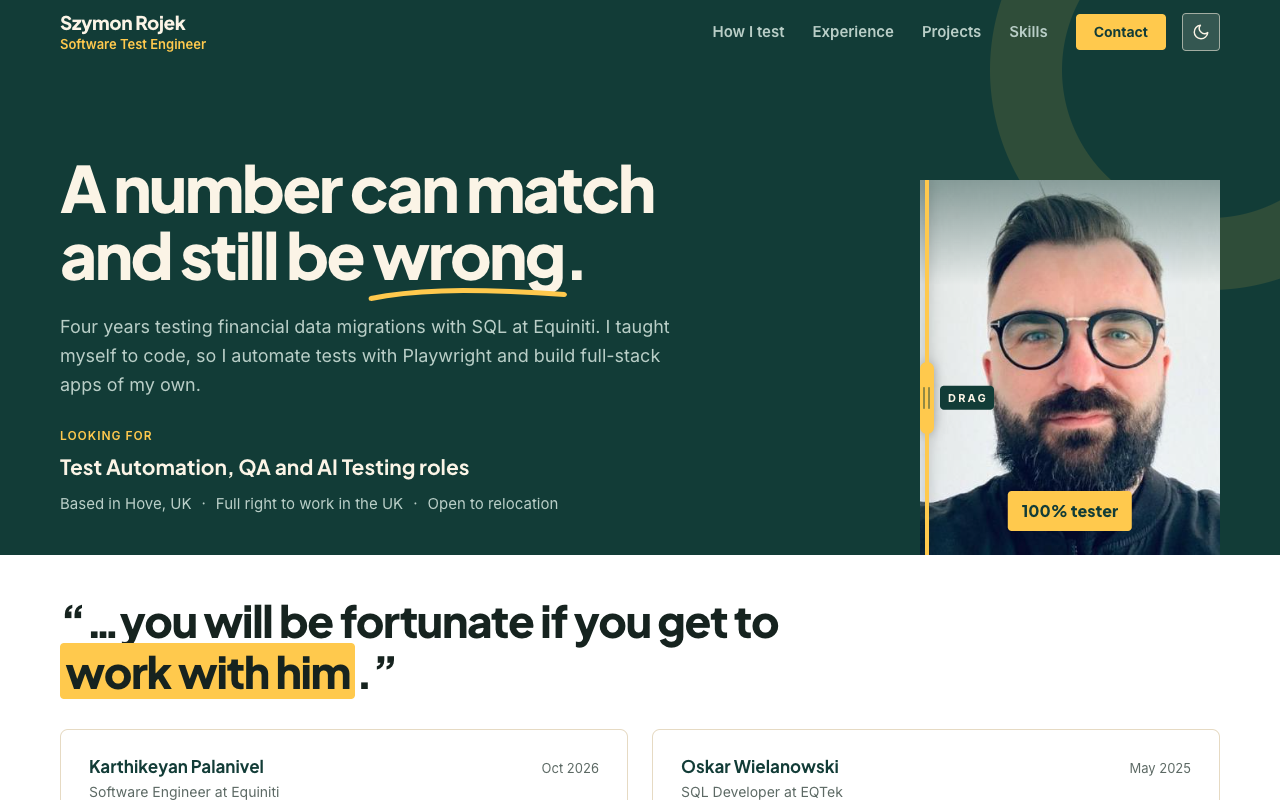
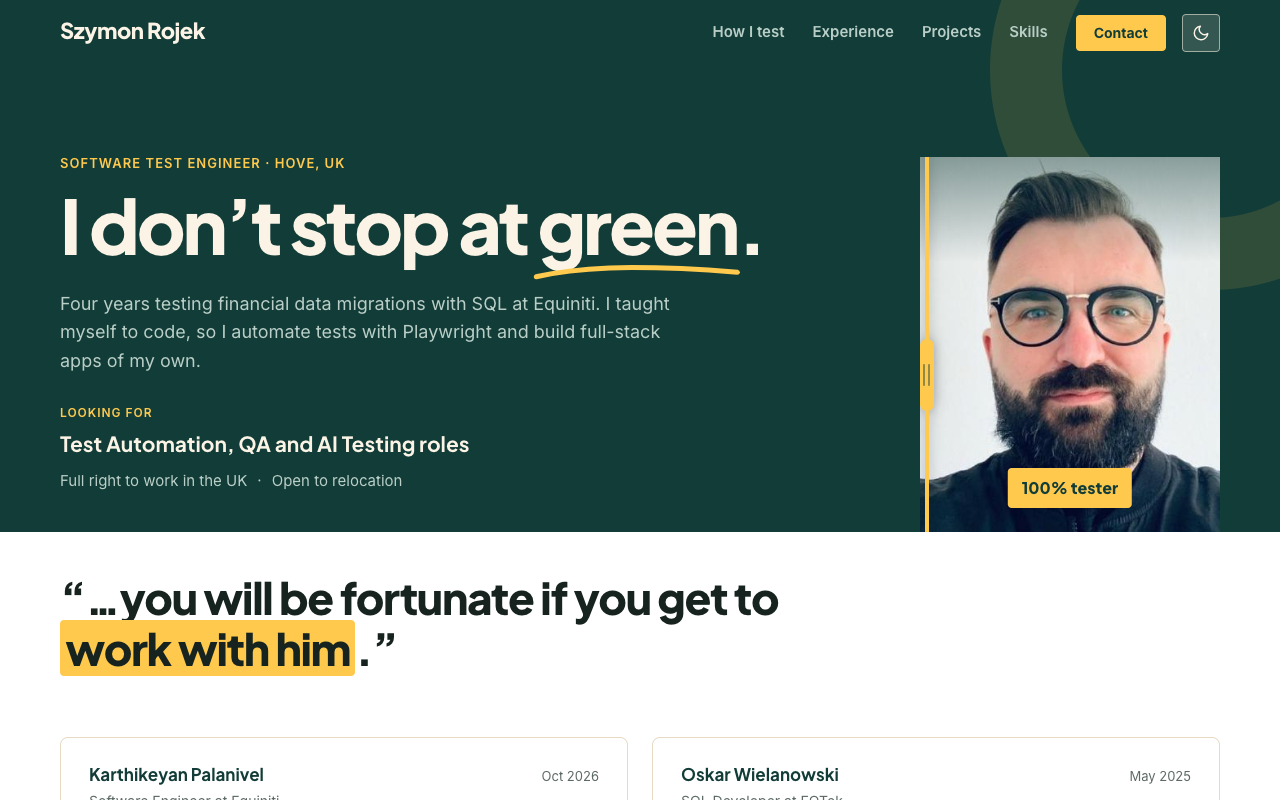
update the readme and its screenshots for the redesign

diff --git a/README.md b/README.md
@@ -6,7 +6,7 @@
 
 <picture>
   <source media="(prefers-color-scheme: dark)" srcset="docs/screenshot-dark.png" />
-  <img src="docs/screenshot-light.png" alt="Screenshot of the homepage: my name and job title in the top bar, the headline 'A number can match and still be wrong.', a short bio, the roles I'm looking for, location and right to work, a portrait with a slider between colour (tester) and a green duotone (developer), and below it a quote from a colleague with the first recommendation cards" />
+  <img src="docs/screenshot-light.png" alt="Screenshot of the homepage: my name in the top bar, 'Software Test Engineer · Hove, UK' over the headline 'I don't stop at green.', a short bio, the roles I'm looking for and my right to work, a portrait with a slider between colour (tester) and a green duotone (developer), and below it a quote from a colleague with the first recommendation cards" />
 </picture>
 
 ## Why this site exists (30-second summary)
@@ -81,19 +81,19 @@ flowchart LR
 
 ### Key decisions and trade-offs
 
-| Decision                                                 | Why                                                                                                                    | Trade-off                                                                                                                     |
-| -------------------------------------------------------- | ---------------------------------------------------------------------------------------------------------------------- | ----------------------------------------------------------------------------------------------------------------------------- |
-| A colour-block design: one green band, one yellow accent | A calm, memorable first impression for HR, instead of gradients and glows                                              | Every text colour pair is checked for WCAG AA by hand in `theme.ts`, and axe checks them again in CI                          |
-| One shared content column for the bar, hero and sections | The edges line up at every screen width, and wider screens get wider margins                                           | Full-width bands need an inner wrapper. An e2e test measures the edges at four widths                                         |
-| Every section on its own background, the seams measured  | White next to cream (1.09:1) ran the sections together, so each pair of neighbours now differs by about 1.15:1 or more | Three light and four dark tones to keep in step. Every text pair is re-checked for AA, and axe checks it again in both themes |
-| Static project data instead of the GitHub API            | Rate limits on shared networks could show recruiters an error                                                          | Descriptions are updated by hand. An e2e fixture fails if the page ever calls the GitHub API again                            |
-| Test pyramid: Vitest, then Playwright, then axe          | Fast feedback on logic, real confidence in what visitors see                                                           | E2E takes about a minute, so it covers only user-visible behaviour                                                            |
-| 80% coverage gate that leaves out styles                 | Coverage should measure logic, not CSS                                                                                 | Styles are checked by the e2e and axe tests instead                                                                           |
-| Paint the theme before JavaScript loads                  | Reloading in dark mode briefly flashed a light page                                                                    | The background colours live in two places. A unit test keeps them in sync                                                     |
-| Prerender the page into the HTML at build time           | Search engines and AI tools that don't run JavaScript saw an empty page                                                | Components must render without a browser. A unit test renders the page in Node and fails if one reaches for it                |
-| Self-hosted font and a right-sized photo                 | Google Fonts blocked rendering, and the photo was three times larger than displayed                                    | Font updates are manual: the woff2 files live in `public/fonts` and are preloaded in the HTML                                 |
-| Lighthouse judged on the median of three runs            | The default (best run) could let a budget pass by luck                                                                 | Slower CI, and a stricter budget                                                                                              |
-| Protected `main`, dev-first workflow, PRs I merge myself | Every push to `main` deploys. The rule also stops an AI coding assistant shipping on its own                           | Even a one-line fix needs a PR and a green pipeline                                                                           |
+| Decision                                                 | Why                                                                                                                    | Trade-off                                                                                                                                   |
+| -------------------------------------------------------- | ---------------------------------------------------------------------------------------------------------------------- | ------------------------------------------------------------------------------------------------------------------------------------------- |
+| A colour-block design: one green band, one yellow accent | A calm, memorable first impression for HR, instead of gradients and glows                                              | Every text colour pair is checked for WCAG AA by hand in `theme.ts`, and axe checks them again in CI                                        |
+| One shared content column for the bar, hero and sections | The edges line up at every screen width, and wider screens get wider margins                                           | Full-width bands need an inner wrapper. An e2e test measures the edges at four widths                                                       |
+| Every section on its own background, the seams measured  | White next to cream (1.09:1) ran the sections together, so each pair of neighbours now differs by about 1.15:1 or more | Two page tones per theme plus the brand green to keep in step. Every text pair is re-checked for AA, and axe checks it again in both themes |
+| Static project data instead of the GitHub API            | Rate limits on shared networks could show recruiters an error                                                          | Descriptions are updated by hand. An e2e fixture fails if the page ever calls the GitHub API again                                          |
+| Test pyramid: Vitest, then Playwright, then axe          | Fast feedback on logic, real confidence in what visitors see                                                           | E2E takes about a minute, so it covers only user-visible behaviour                                                                          |
+| 80% coverage gate that leaves out styles                 | Coverage should measure logic, not CSS                                                                                 | Styles are checked by the e2e and axe tests instead                                                                                         |
+| Paint the theme before JavaScript loads                  | Reloading in dark mode briefly flashed a light page                                                                    | The background colours live in two places. A unit test keeps them in sync                                                                   |
+| Prerender the page into the HTML at build time           | Search engines and AI tools that don't run JavaScript saw an empty page                                                | Components must render without a browser. A unit test renders the page in Node and fails if one reaches for it                              |
+| Self-hosted font and a right-sized photo                 | Google Fonts blocked rendering, and the photo was three times larger than displayed                                    | Font updates are manual: the woff2 files live in `public/fonts` and are preloaded in the HTML                                               |
+| Lighthouse judged on the median of three runs            | The default (best run) could let a budget pass by luck                                                                 | Slower CI, and a stricter budget                                                                                                            |
+| Protected `main`, dev-first workflow, PRs I merge myself | Every push to `main` deploys. The rule also stops an AI coding assistant shipping on its own                           | Even a one-line fix needs a PR and a green pipeline                                                                                         |
 
 ### Testing, performance, accessibility and security
 
@@ -258,15 +258,15 @@ Work happens on the `dev` branch. Every push to `dev` or `main` and every pull r
 
 All text lives in data files, not in components:
 
-| File                                              | Content                                                                                                 |
-| ------------------------------------------------- | ------------------------------------------------------------------------------------------------------- |
-| `src/features/Homepage/profile.ts`                | Name, job titles, headline, target roles, location, bio, contact text, LinkedIn                         |
-| `src/features/Homepage/recommendationsData.ts`    | LinkedIn recommendations, quoted word for word, the phrase marked in each, and the headline quote       |
-| `src/features/Homepage/howITestData.ts`           | The "How I test at work" section                                                                        |
-| `src/features/Homepage/skillsData.ts`             | Testing, automation and programming skills, tools and languages                                         |
-| `src/features/Homepage/experienceData.ts`         | Experience, and courses for "Still learning"                                                            |
-| `src/features/Homepage/Portfolio/projectsData.ts` | Projects, `caseStudy` write-ups, their brief/research/solution/value stories and developer/tester views |
-| `src/features/Homepage/Portfolio/pipelineData.ts` | The CI checks shown in the homepage case study's tester view                                            |
+| File                                              | Content                                                                                                                                                                               |
+| ------------------------------------------------- | ------------------------------------------------------------------------------------------------------------------------------------------------------------------------------------- |
+| `src/features/Homepage/profile.ts`                | Name, job title, the line over the headline, headline, target roles, location, bio, contact text, LinkedIn                                                                            |
+| `src/features/Homepage/recommendationsData.ts`    | LinkedIn recommendations, quoted word for word, the phrase marked in each, and the headline quote                                                                                     |
+| `src/features/Homepage/howITestData.ts`           | The "How I test at work" section: my story and the three steps                                                                                                                        |
+| `src/features/Homepage/skillsData.ts`             | Testing, automation and programming skills, tools and languages for "Skills & learning"                                                                                               |
+| `src/features/Homepage/experienceData.ts`         | Experience, and courses for the "Learning" list in "Skills & learning"                                                                                                                |
+| `src/features/Homepage/Portfolio/projectsData.ts` | Projects (the featured one, tags and facts on the cards, the section's two-line title), `caseStudy` write-ups, their brief/research/solution/value stories and developer/tester views |
+| `src/features/Homepage/Portfolio/pipelineData.ts` | The CI checks shown in the homepage case study's tester view                                                                                                                          |
 
 Search engines get the same facts as structured data, built from these files (`structuredData.ts`). The share card for link previews, `public/og-image.jpg`, shows the name, title and headline as an image, so redraw it when they change.
 
